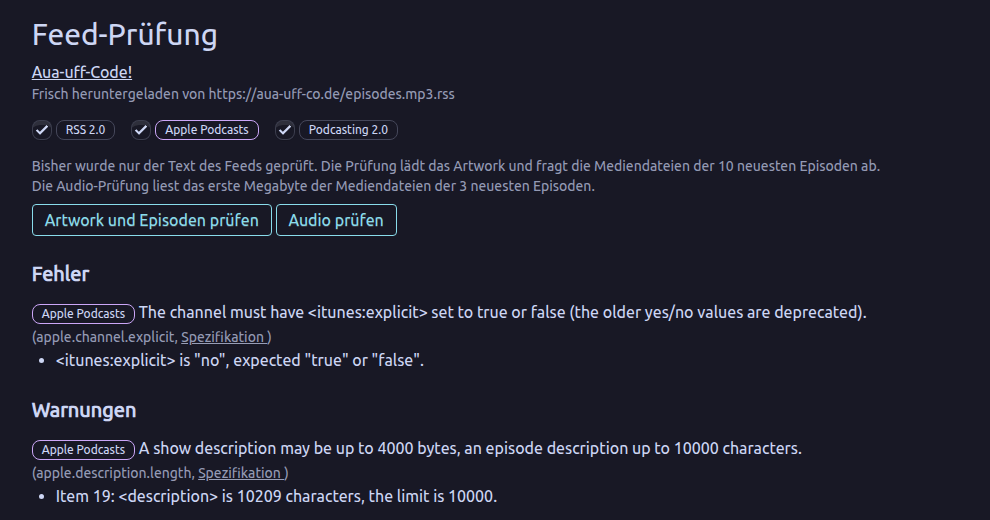
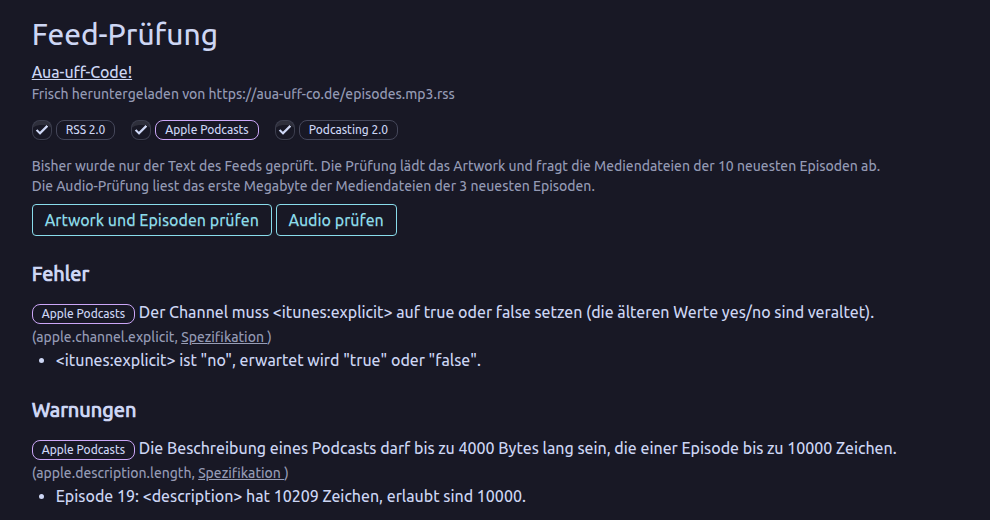
Podcaster manual (German): feed check rule texts are German now, new screenshot — publish after check_my_feed 0.6.0 is on prod

diff --git a/pages/manuals/podcaster-manual.de.md b/pages/manuals/podcaster-manual.de.md
@@ -120,7 +120,7 @@ Nennt der Feed keine Eigentümer:innen-Adresse, kann Panoptikum keine Bestätigu
 
 ![Der Anfang der Feed-Prüfung von Aua-uff-Code!](/media/manual-pod-check-feed-de.png)
 
-Der Bericht prüft den Feed nach den Regelwerken von RSS 2.0, Apple Podcasts und Podcasting 2.0, jeweils mit Fehlern, Warnungen und Hinweisen, einem Link zur Regel und der Stelle in Ihrem Feed. Die Regeltexte selbst sind englisch. Mit den Kästchen oben schalten Sie die Regelwerke ein und aus. Weitere Abschnitte zeigen, was Panoptikum aus Ihrem Feed trotzdem liest, obwohl es nicht dem Standard entspricht (andere Apps vielleicht nicht), und was Panoptikum überhaupt aus Ihrem Feed liest: Titel, Artwork, Eigentümer:in, Kategorien, Personen, Episoden und mehr.
+Der Bericht prüft den Feed nach den Regelwerken von RSS 2.0, Apple Podcasts und Podcasting 2.0, jeweils mit Fehlern, Warnungen und Hinweisen, einem Link zur Regel und der Stelle in Ihrem Feed. Mit den Kästchen oben schalten Sie die Regelwerke ein und aus. Weitere Abschnitte zeigen, was Panoptikum aus Ihrem Feed trotzdem liest, obwohl es nicht dem Standard entspricht (andere Apps vielleicht nicht), und was Panoptikum überhaupt aus Ihrem Feed liest: Titel, Artwork, Eigentümer:in, Kategorien, Personen, Episoden und mehr.
 
 Zwei Buttons prüfen mehr als den Feed selbst:
 
